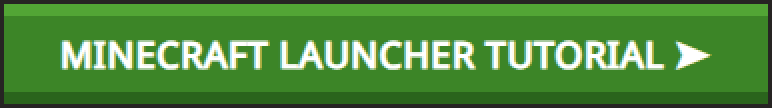
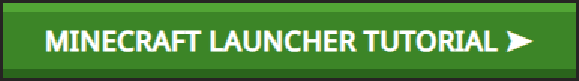
init

Changed region(s): [[0.0622, 0.3704, 0.9326, 0.6667], [0.8705, 0.4938, 0.9326, 0.5432]]

diff --git a/prism-launcher.html b/prism-launcher.html
@@ -9,5 +9,5 @@
 
 
 </head>
-<body id="ijeo-2-2"><div id="i02r-2-2"><span id="i0k3-2-2">THIS WEBPAGE IS A WORK-IN-PROGRESS<br/></span></div><div id="ica8z-2-2">MORE TUTORIALS WILL BE ADDED AS THEY ARE NEEDED</div><div id="iiwwt-5-2"><u><span id="i6uwnk-3-2">The Prism Launcher Tutorials:</span></u><br draggable="true" id="iif0hh-5-2"/></div><div id="iiwwt-5-3-4-2"><u><span id="i6uwnk-3-3-4-2">"I want to move to Prism Launcher":</span></u><br draggable="true" id="iif0hh-5-3-4-2"/></div><div id="iiwwt-2-3-2">Prism Launcher is a very robust Minecraft Java Edition launcher. One feature I find the most useful is the ability to import and export instances. I made a basic instance with the <span id="idmuvn">Fabric Mod Loader</span>, the <span id="is9raz">qConnect</span> mod, as well as some basic quality of life mods to boost performance (such as <span id="inzjf6">Sodium</span> and <span id="iv5ysj">EntityCulling</span>)<br/><br/>Step 1: Download and install Prism Launcher for the Operating System you use <a href="https://prismlauncher.org/" id="id6v9j">at this website</a><br/>Step 2: Log into your Microsoft Account within Prism Launcher<br/>Step 3: Click "<i draggable="true" id="ifdusl-2">Add Instance</i>" and choose "<i draggable="true" id="iq7zru">Import</i>", name it anything you want (I named mine qConnect) and for the field named "<i draggable="true" id="iymrmm">Local file or link to a direct download:</i>" paste this in: <span id="ii7ide">https://filebrowser.bork.in/api/public/dl/tfCB7fjc</span><br/>Optional: Download any other mods you want, copy over configs, resource packs, etc</div><div id="iiwwt-5-3-3-2"><u><span id="i6uwnk-3-3-3-2">"I already Prism Launcher and have an instance with Minecraft version 1.21.7+ AND the Fabric (or Quilt) Loader":</span></u><br draggable="true" id="iif0hh-5-3-3-2"/></div><div id="iiwwt-2-3-2-2">Step 1: Open Prism Launcher<br/>Step 2: Right click on your instance and select "<i draggable="true" id="ifdusl-3">Edit</i>"<br/>Step 3: Click on "<i draggable="true" id="i9lx2v">Mods</i>" on the left<br/>Step 4: Download the <span id="ikyg7l-2" draggable="true" class="gjs-hovered">qConnect</span> mod: <a id="iq3ki-2-3" draggable="true" href="https://github.com/Degghre/qConnect/releases/download/v1.0.0/qConnect-1.0.0-1.21.jar">Direct Download</a> (from the <a id="ittbj-2-3" draggable="true" href="https://github.com/Degghre/qConnect/releases/">qConnect Repository</a> on <a id="i5x5j-2-3" draggable="true" href="https://github.com/Degghre">Degghre's GitHub</a>)<br/>Step 5: Locate the downloaded <span id="ik6jxs">qConnect-1.0.0-1.21.jar</span> file and drag it into the list of mods from Step 3</div><div id="iiwwt-3-3-2"><u></u><br/><br/><br draggable="true" id="iif0hh-3-3-2"/></div><div id="iiwwt-5-4-2"><u><span id="i6uwnk-3-4-2">More (Specific) Tutorials:</span></u><br draggable="true" id="iif0hh-5-4-2"/></div><div id="iiwwt-2-2-2-2"><span id="ictp0w"><a href="minecraft.html"><img src="mclauncher_go.png" alt="MINECRAFT LAUNCHER TUTORIAL" style="width:772px;height:108px;"></a> <a href="index.html"><img src="tldr_back.png" alt="GO BACK TO TL;DR" style="width:494px;height:108px;"></a></span></div><div id="iiwwt-3-2-2-2"><u></u><br/><br/><br draggable="true" id="iif0hh-3-2-2-2"/></div><div id="iiwwt-4-2-2-2">The content on this page was typed by one individual. No other person, community, organization, corporation or entity has had any part in the typing of this message, nor do they endorse the use of these mods. Warranty void if sticker removed.</div></body>
+<body id="ijeo-2-2"><div id="i02r-2-2"><span id="i0k3-2-2">THIS WEBPAGE IS A WORK-IN-PROGRESS<br/></span></div><div id="ica8z-2-2">MORE TUTORIALS WILL BE ADDED AS THEY ARE NEEDED</div><div id="iiwwt-5-2"><u><span id="i6uwnk-3-2">The Prism Launcher Tutorials:</span></u><br draggable="true" id="iif0hh-5-2"/></div><div id="iiwwt-5-3-4-2"><u><span id="i6uwnk-3-3-4-2">"I want to move to Prism Launcher":</span></u><br draggable="true" id="iif0hh-5-3-4-2"/></div><div id="iiwwt-2-3-2">Prism Launcher is a very robust Minecraft Java Edition launcher. One feature I find the most useful is the ability to import and export instances. I made a basic instance with the <span id="idmuvn">Fabric Mod Loader</span>, the <span id="is9raz">qConnect</span> mod, as well as some basic quality of life mods to boost performance (such as <span id="inzjf6">Sodium</span> and <span id="iv5ysj">EntityCulling</span>)<br/><br/>Step 1: Download and install Prism Launcher for the Operating System you use <a href="https://prismlauncher.org/" id="id6v9j">at this website</a><br/>Step 2: Log into your Microsoft Account within Prism Launcher<br/>Step 3: Click "<i draggable="true" id="ifdusl-2">Add Instance</i>" and choose "<i draggable="true" id="iq7zru">Import</i>", name it anything you want (I named mine qConnect) and for the field named "<i draggable="true" id="iymrmm">Local file or link to a direct download:</i>" paste this in: <span id="ii7ide">https://filebrowser.bork.in/api/public/dl/tfCB7fjc</span><br/>Optional: Download any other mods you want, copy over configs, resource packs, etc</div><div id="iiwwt-5-3-3-2"><u><span id="i6uwnk-3-3-3-2">"I already Prism Launcher and have an instance with Minecraft version 1.21.7+ AND the Fabric (or Quilt) Loader":</span></u><br draggable="true" id="iif0hh-5-3-3-2"/></div><div id="iiwwt-2-3-2-2">Step 1: Open Prism Launcher<br/>Step 2: Right click on your instance and select "<i draggable="true" id="ifdusl-3">Edit</i>"<br/>Step 3: Click on "<i draggable="true" id="i9lx2v">Mods</i>" on the left<br/>Step 4: Download the <span id="ikyg7l-2" draggable="true" class="gjs-hovered">qConnect</span> mod: <a id="iq3ki-2-3" draggable="true" href="https://github.com/Degghre/qConnect/releases/download/v1.0.0/qConnect-1.0.0-1.21.jar">Direct Download</a> (from the <a id="ittbj-2-3" draggable="true" href="https://github.com/Degghre/qConnect/releases/">qConnect Repository</a> on <a id="i5x5j-2-3" draggable="true" href="https://github.com/Degghre">Degghre's GitHub</a>)<br/>Step 5: Locate the downloaded <span id="ik6jxs">qConnect-1.0.0-1.21.jar</span> file and drag it into the list of mods from Step 3</div><div id="iiwwt-3-3-2"><u></u><br/><br/><br draggable="true" id="iif0hh-3-3-2"/></div><div id="iiwwt-5-4-2"><u><span id="i6uwnk-3-4-2">More (Specific) Tutorials:</span></u><br draggable="true" id="iif0hh-5-4-2"/></div><div id="iiwwt-2-2-2-2"><span id="ictp0w"><a href="minecraft.html"><img src="mclauncher_go.png" alt="MINECRAFT LAUNCHER TUTORIAL" style="width:579px;height:81px;"></a> <a href="index.html"><img src="tldr_back.png" alt="GO BACK TO TL;DR" style="width:371px;height:81px;"></a></span></div><div id="iiwwt-3-2-2-2"><u></u><br/><br/><br draggable="true" id="iif0hh-3-2-2-2"/></div><div id="iiwwt-4-2-2-2">The content on this page was typed by one individual. No other person, community, organization, corporation or entity has had any part in the typing of this message, nor do they endorse the use of these mods. Warranty void if sticker removed.</div></body>
 </html>

diff --git a/minecraft.html b/minecraft.html
@@ -9,5 +9,5 @@
 
 
 </head>
-<body id="ijeo-2"><div id="i02r-2"><span id="i0k3-2">THIS WEBPAGE IS A WORK-IN-PROGRESS<br/></span></div><div id="ica8z-2">MORE TUTORIALS WILL BE ADDED AS THEY ARE NEEDED</div><div id="iiwwt-5"><u><span id="i6uwnk-3">The Minecraft Launcher Tutorials:</span></u><br draggable="true" id="iif0hh-5"/></div><div id="iiwwt-5-3"><u><span id="i6uwnk-3-3">"I already have the Fabric (or Quilt) Loader":</span></u><br draggable="true" id="iif0hh-5-3"/></div><div id="iiwwt-2-3">Running the standard Minecraft Launcher from minecraft.net?<br/><br/><span id="i8faxa">qConnect</span> Mod: <a draggable="true" href="https://github.com/Degghre/qConnect/releases/download/v1.0.0/qConnect-1.0.0-1.21.jar" id="iq3ki-2-2">Direct Download</a> (from the <a draggable="true" href="https://github.com/Degghre/qConnect/releases/" id="ittbj-2-2">qConnect Repository</a> on <a draggable="true" href="https://github.com/Degghre" id="i5x5j-2-2">Degghre's GitHub</a>)<br/><br/>Step 1: On your keyboard: <span id="ir715c">Windows Key</span> + <span id="i96nue">R</span> to get the "<i draggable="true" id="iu14g-2-2">Run</i>" prompt<br/>Step 2: Type "<font color="rgba(134, 211, 9, 0.97)"><i><i draggable="true" id="iu14g-2-2-2">%appdata%</i></i></font>" into the box and then click <span id="idpvpq">OK</span><br/>Step 3: Open the "<i draggable="true" id="ivx43q">.minecraft</i>" folder, then the "<i draggable="true" id="ifdusl">mods</i>" folder<br/>Step 4: Move the <span id="ikxq85">qConnect</span> mod <span id="iz9xfj">.jar file</span> into the "<i draggable="true" id="i5jrar">mods</i>" folder</div><div id="iiwwt-5-3-2"><u><span id="i6uwnk-3-3-2">"I DON'T have the Fabric (or Quilt) Loader yet":</span></u><br draggable="true" id="iif0hh-5-3-2"/></div><div id="iiwwt-2-3-3">Don't see a "<i draggable="true" id="i5jrar-2">mods</i>" folder in the "<i draggable="true" id="ivx43q-2">.minecraft</i>" folder? You need the <span id="i3uqjj"><span draggable="true" id="iv9mu6-2">Fabric</span><span id="icvnh5"> (or </span><span draggable="true" id="icuxgl-2">Quilt</span><span id="iobg41">) </span><span draggable="true" id="ip8yji-2">Mod Loader</span><br/></span><br/><span id="it7zni">Fabric Mod Loader</span>: <a href="https://fabricmc.net/use/installer/" id="i6u2zu">Download here</a> and install, leaving all the settings default<br/>Now you are able to follow Steps 1 through 4 above after downloading the <span id="i89dwb">qConnect</span> mod</div><div id="iiwwt-3-3"><u></u><br/><br/><br draggable="true" id="iif0hh-3-3"/></div><div id="iiwwt-5-4"><u><span id="i6uwnk-3-4">More (Specific) Tutorials:</span></u><br draggable="true" id="iif0hh-5-4"/></div><div id="iiwwt-2-2-2"><span id="i8cixd"><a href="index.html"><img src="tldr_back.png" alt="GO BACK TO TL;DR" style="width:494px;height:108px;"></a> <a href="prism-launcher.html"><img src="prismlauncher_go.png" alt="PRISM LAUNCHER TUTORIAL" style="width:678px;height:108px;"></a></span></div><div id="iiwwt-3-2-2"><u></u><br/><br/><br draggable="true" id="iif0hh-3-2-2"/></div><div id="iiwwt-4-2-2">The content on this page was typed by one individual. No other person, community, organization, corporation or entity has had any part in the typing of this message, nor do they endorse the use of these mods. Warranty void if sticker removed.</div></body>
+<body id="ijeo-2"><div id="i02r-2"><span id="i0k3-2">THIS WEBPAGE IS A WORK-IN-PROGRESS<br/></span></div><div id="ica8z-2">MORE TUTORIALS WILL BE ADDED AS THEY ARE NEEDED</div><div id="iiwwt-5"><u><span id="i6uwnk-3">The Minecraft Launcher Tutorials:</span></u><br draggable="true" id="iif0hh-5"/></div><div id="iiwwt-5-3"><u><span id="i6uwnk-3-3">"I already have the Fabric (or Quilt) Loader":</span></u><br draggable="true" id="iif0hh-5-3"/></div><div id="iiwwt-2-3">Running the standard Minecraft Launcher from minecraft.net?<br/><br/><span id="i8faxa">qConnect</span> Mod: <a draggable="true" href="https://github.com/Degghre/qConnect/releases/download/v1.0.0/qConnect-1.0.0-1.21.jar" id="iq3ki-2-2">Direct Download</a> (from the <a draggable="true" href="https://github.com/Degghre/qConnect/releases/" id="ittbj-2-2">qConnect Repository</a> on <a draggable="true" href="https://github.com/Degghre" id="i5x5j-2-2">Degghre's GitHub</a>)<br/><br/>Step 1: On your keyboard: <span id="ir715c">Windows Key</span> + <span id="i96nue">R</span> to get the "<i draggable="true" id="iu14g-2-2">Run</i>" prompt<br/>Step 2: Type "<font color="rgba(134, 211, 9, 0.97)"><i><i draggable="true" id="iu14g-2-2-2">%appdata%</i></i></font>" into the box and then click <span id="idpvpq">OK</span><br/>Step 3: Open the "<i draggable="true" id="ivx43q">.minecraft</i>" folder, then the "<i draggable="true" id="ifdusl">mods</i>" folder<br/>Step 4: Move the <span id="ikxq85">qConnect</span> mod <span id="iz9xfj">.jar file</span> into the "<i draggable="true" id="i5jrar">mods</i>" folder</div><div id="iiwwt-5-3-2"><u><span id="i6uwnk-3-3-2">"I DON'T have the Fabric (or Quilt) Loader yet":</span></u><br draggable="true" id="iif0hh-5-3-2"/></div><div id="iiwwt-2-3-3">Don't see a "<i draggable="true" id="i5jrar-2">mods</i>" folder in the "<i draggable="true" id="ivx43q-2">.minecraft</i>" folder? You need the <span id="i3uqjj"><span draggable="true" id="iv9mu6-2">Fabric</span><span id="icvnh5"> (or </span><span draggable="true" id="icuxgl-2">Quilt</span><span id="iobg41">) </span><span draggable="true" id="ip8yji-2">Mod Loader</span><br/></span><br/><span id="it7zni">Fabric Mod Loader</span>: <a href="https://fabricmc.net/use/installer/" id="i6u2zu">Download here</a> and install, leaving all the settings default<br/>Now you are able to follow Steps 1 through 4 above after downloading the <span id="i89dwb">qConnect</span> mod</div><div id="iiwwt-3-3"><u></u><br/><br/><br draggable="true" id="iif0hh-3-3"/></div><div id="iiwwt-5-4"><u><span id="i6uwnk-3-4">More (Specific) Tutorials:</span></u><br draggable="true" id="iif0hh-5-4"/></div><div id="iiwwt-2-2-2"><span id="i8cixd"><a href="index.html"><img src="tldr_back.png" alt="GO BACK TO TL;DR" style="width:371px;height:81px;"></a> <a href="prism-launcher.html"><img src="prismlauncher_go.png" alt="PRISM LAUNCHER TUTORIAL" style="width:509px;height:81px;"></a></span></div><div id="iiwwt-3-2-2"><u></u><br/><br/><br draggable="true" id="iif0hh-3-2-2"/></div><div id="iiwwt-4-2-2">The content on this page was typed by one individual. No other person, community, organization, corporation or entity has had any part in the typing of this message, nor do they endorse the use of these mods. Warranty void if sticker removed.</div></body>
 </html>

diff --git a/index.html b/index.html
@@ -9,5 +9,5 @@
 
 
 </head>
-<body id="ijeo"><div id="i02r"><span id="i0k3">THIS WEBPAGE IS A WORK-IN-PROGRESS<br/></span></div><div id="ica8z">MORE TUTORIALS WILL BE ADDED AS THEY ARE NEEDED</div><div id="iiwwt"><u><span id="i6uwnk">The TL;DR Tutorial:</span></u><br draggable="true" id="iif0hh"/></div><div id="iiwwt-2">Queercraft's Minecraft Server is technically able to be accessed by Java Clients running version 1.21.7, 1.21.8, 1.21.9 or 1.21.10<br/><br/>There are <i>certain mods</i> which allow you to bypass server blacklist(s)<br/><br/><span id="iivfsj">qConnect</span> happens to be one of those mods<br/><br/><span id="i8gb8e">qConnect</span> requires the <span id="iv9mu6">Fabric</span> (or <span id="icuxgl">Quilt</span>) <span id="ip8yji">Mod Loader</span> (odds are you already have the <span id="ir54rf">Fabric Loader</span> if you have any mods installed)<br/><br/><span id="ikyg7l">qConnect</span> mod: <a href="https://github.com/Degghre/qConnect/releases/download/v1.0.0/qConnect-1.0.0-1.21.jar" id="iq3ki-2">Direct Download</a> (from the <a href="https://github.com/Degghre/qConnect/releases/" id="ittbj-2">qConnect Repository</a> on <a href="https://github.com/Degghre" id="i5x5j-2">Degghre's GitHub</a>)<br/><br/>Simply place the <span id="ixayna">.jar file</span> you just downloaded into your Minecraft's "<i id="iu14g-2">mod</i>" folder with the rest of your mods<br draggable="true" id="iif0hh-2"/></div><div id="iiwwt-3"><u></u><br/><br/><br draggable="true" id="iif0hh-3"/></div><div id="iiwwt-5-4-3"><u><span id="i6uwnk-3-4-3">More (Specific) Tutorials:</span></u><br draggable="true" id="iif0hh-5-4-3"/></div><div id="iiwwt-2-2"><span id="imvy8"><a href="minecraft.html"><img src="mclauncher_go.png" alt="MINECRAFT LAUNCHER TUTORIAL" style="width:772px;height:108px;"></a> <a href="prism-launcher.html"><img src="prismlauncher_go.png" alt="PRISM LAUNCHER TUTORIAL" style="width:678px;height:108px;"></a></span></div><div id="iiwwt-3-2"><u></u><br/><br/><br draggable="true" id="iif0hh-3-2"/></div><div id="iiwwt-4-2">The content on this page was typed by one individual. No other person, community, organization, corporation or entity has had any part in the typing of this message, nor do they endorse the use of these mods. Warranty void if sticker removed.</div></body>
+<body id="ijeo"><div id="i02r"><span id="i0k3">THIS WEBPAGE IS A WORK-IN-PROGRESS<br/></span></div><div id="ica8z">MORE TUTORIALS WILL BE ADDED AS THEY ARE NEEDED</div><div id="iiwwt"><u><span id="i6uwnk">The TL;DR Tutorial:</span></u><br draggable="true" id="iif0hh"/></div><div id="iiwwt-2">Queercraft's Minecraft Server is technically able to be accessed by Java Clients running version 1.21.7, 1.21.8, 1.21.9 or 1.21.10<br/><br/>There are <i>certain mods</i> which allow you to bypass server blacklist(s)<br/><br/><span id="iivfsj">qConnect</span> happens to be one of those mods<br/><br/><span id="i8gb8e">qConnect</span> requires the <span id="iv9mu6">Fabric</span> (or <span id="icuxgl">Quilt</span>) <span id="ip8yji">Mod Loader</span> (odds are you already have the <span id="ir54rf">Fabric Loader</span> if you have any mods installed)<br/><br/><span id="ikyg7l">qConnect</span> mod: <a href="https://github.com/Degghre/qConnect/releases/download/v1.0.0/qConnect-1.0.0-1.21.jar" id="iq3ki-2">Direct Download</a> (from the <a href="https://github.com/Degghre/qConnect/releases/" id="ittbj-2">qConnect Repository</a> on <a href="https://github.com/Degghre" id="i5x5j-2">Degghre's GitHub</a>)<br/><br/>Simply place the <span id="ixayna">.jar file</span> you just downloaded into your Minecraft's "<i id="iu14g-2">mod</i>" folder with the rest of your mods<br draggable="true" id="iif0hh-2"/></div><div id="iiwwt-3"><u></u><br/><br/><br draggable="true" id="iif0hh-3"/></div><div id="iiwwt-5-4-3"><u><span id="i6uwnk-3-4-3">More (Specific) Tutorials:</span></u><br draggable="true" id="iif0hh-5-4-3"/></div><div id="iiwwt-2-2"><span id="imvy8"><a href="minecraft.html"><img src="mclauncher_go.png" alt="MINECRAFT LAUNCHER TUTORIAL" style="width:579px;height:81px;"></a> <a href="prism-launcher.html"><img src="prismlauncher_go.png" alt="PRISM LAUNCHER TUTORIAL" style="width:509px;height:81px;"></a></span></div><div id="iiwwt-3-2"><u></u><br/><br/><br draggable="true" id="iif0hh-3-2"/></div><div id="iiwwt-4-2">The content on this page was typed by one individual. No other person, community, organization, corporation or entity has had any part in the typing of this message, nor do they endorse the use of these mods. Warranty void if sticker removed.</div></body>
 </html>
